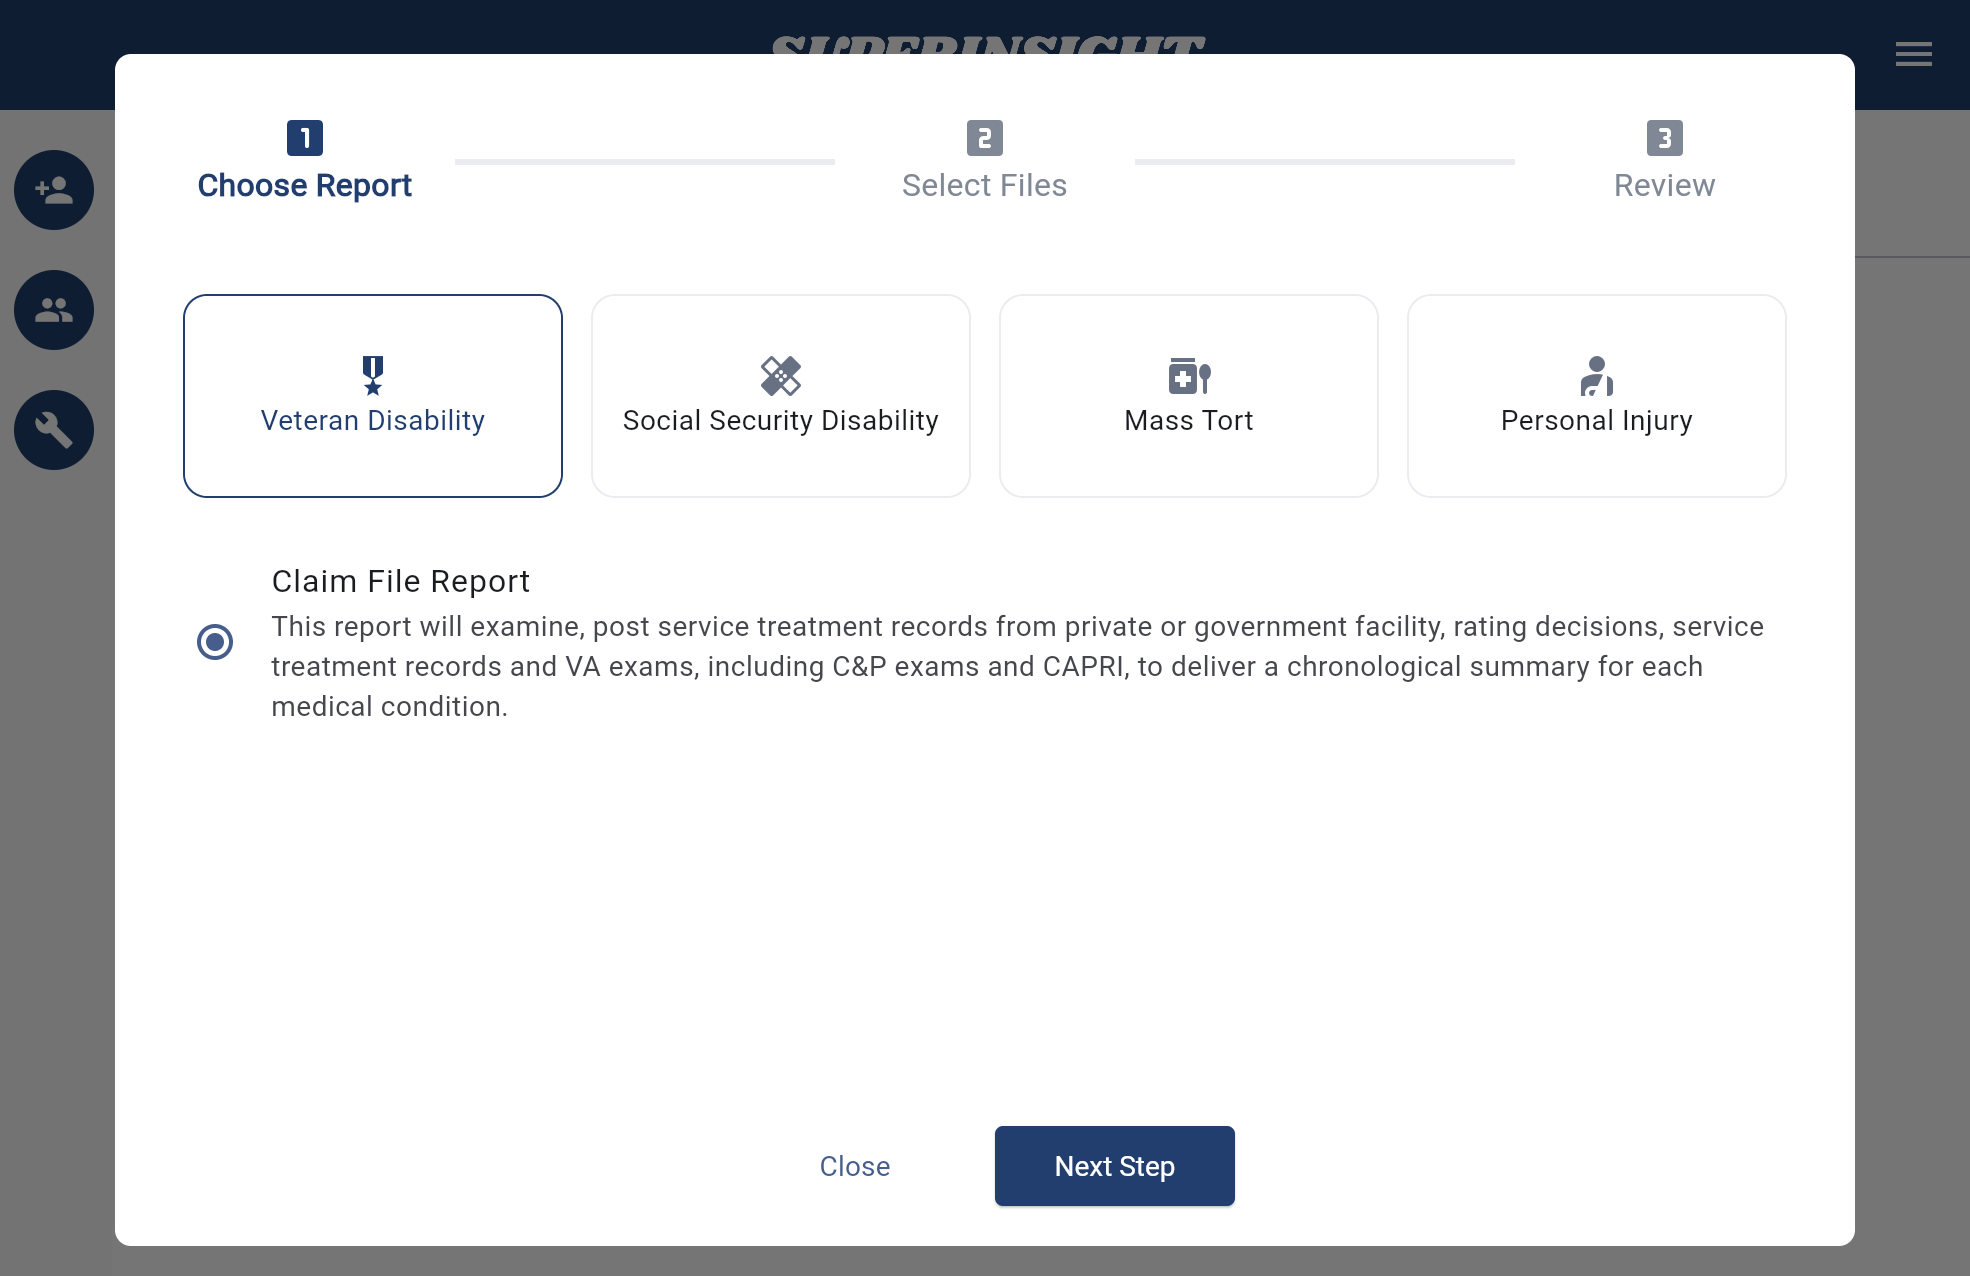
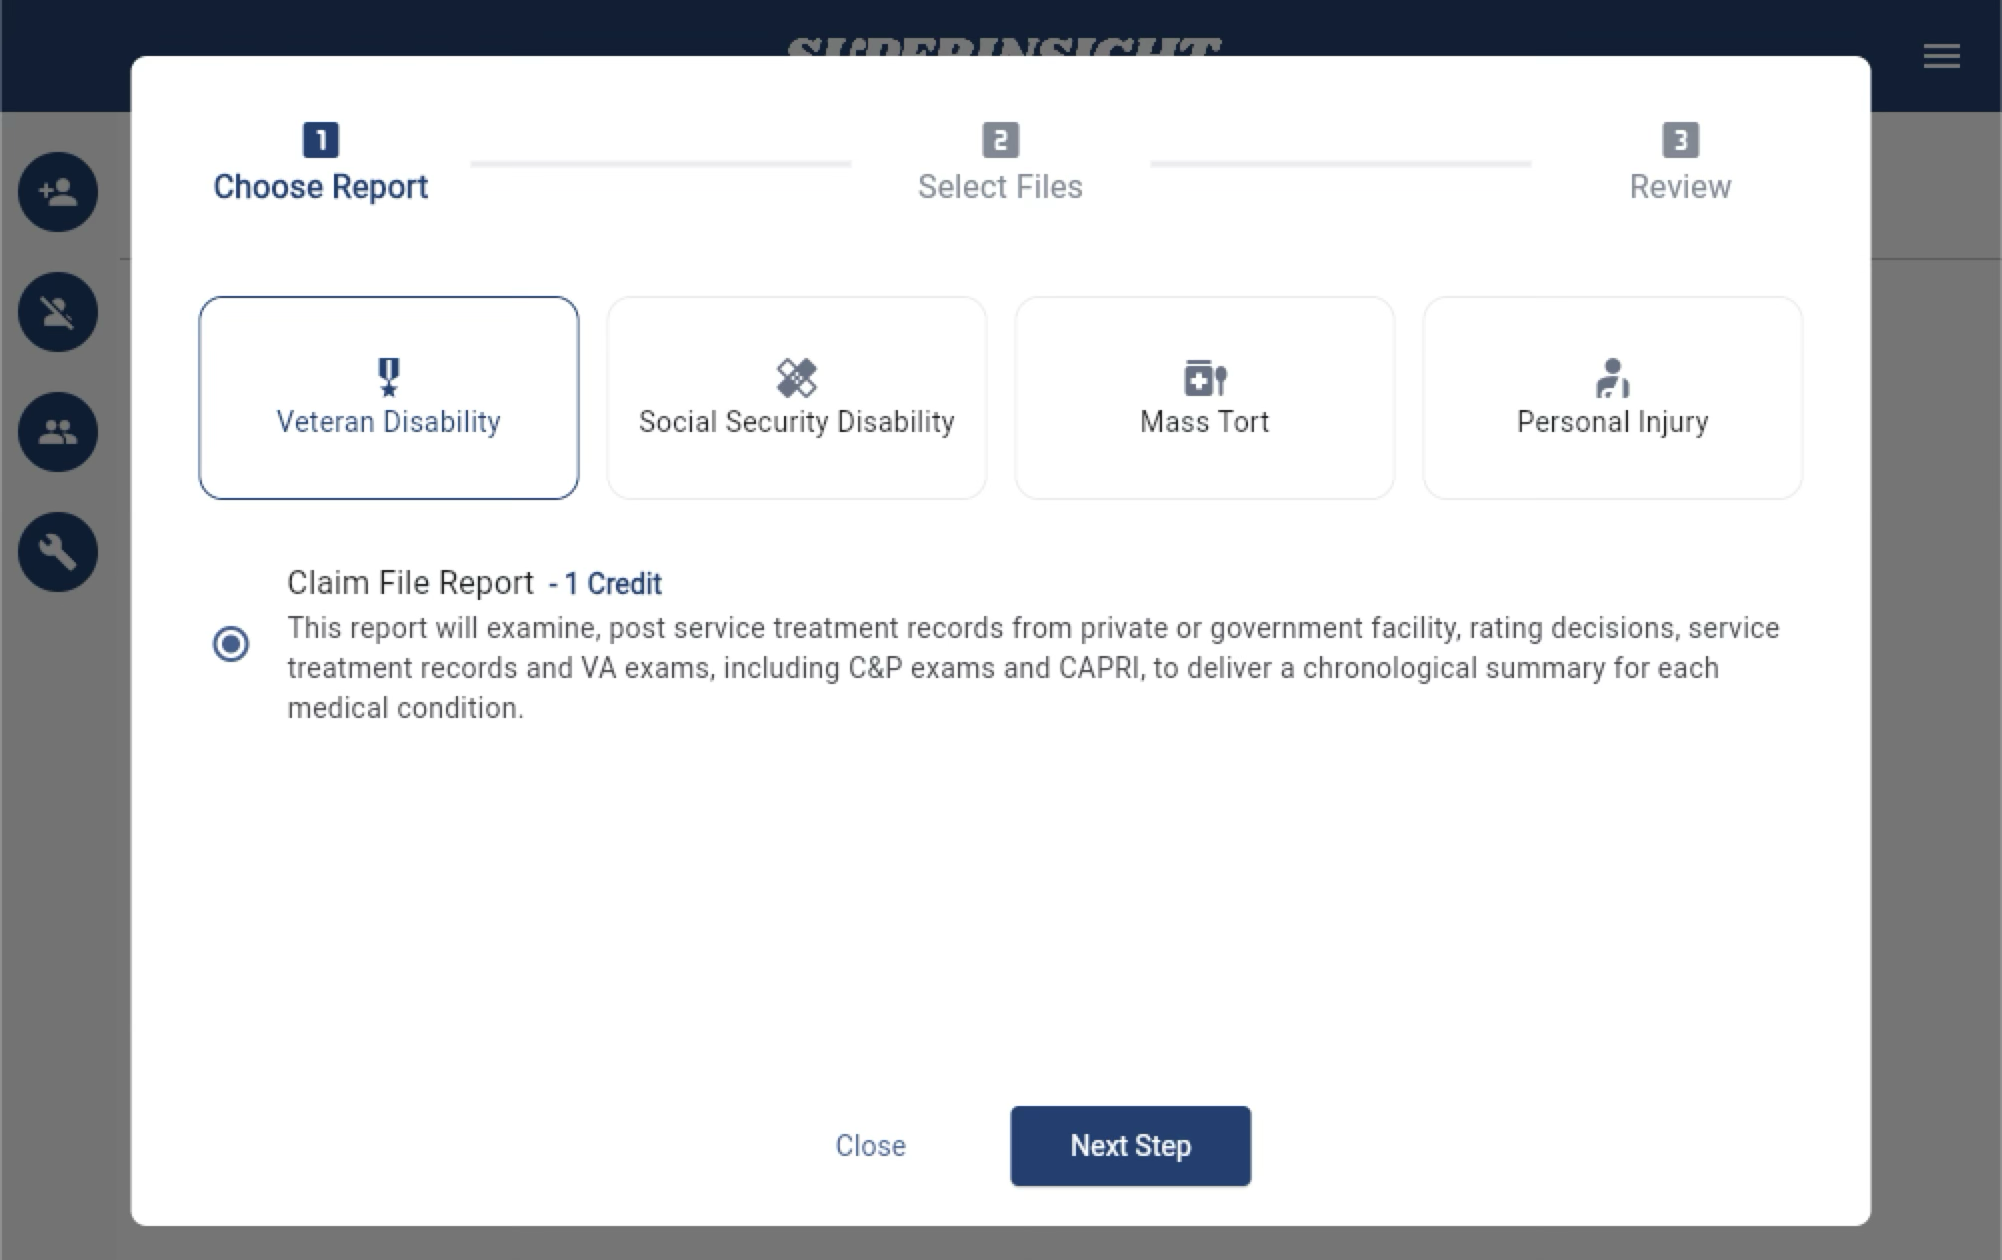
feature-nov-updates-24

diff --git a/docs/guide/case-report.md b/docs/guide/case-report.md
@@ -20,6 +20,8 @@ Select the report types that you want to build. Now we offer 4 types of report, 
     
     If you need a sample report, please click [HERE](sample-report.md)
 
+Each report costs 1-5 credits, based on required resources. If you need extra credits, [contact us](mailto:help@superinsight.ai) to purchase **10 credits for $250** or **30 credits for $500**.
+
 === "Veteran Disability"
     CFile report covers all the information you need while helping veterans, including deep analysis of Rating Decisions, Service Treatment Records, Post Service Medical Records and more.
 

diff --git a/docs/guide/release-notes.md b/docs/guide/release-notes.md
@@ -6,6 +6,22 @@ Release notes provide the list of items on feature changes, known issues, fixes,
 
 ---------------------------------------
 
+#### November 11, 2024 Released
+
+* Credit System implemented
+
+* New Social Security Disability report type added.
+
+* Personal Injury Report enhancement.
+
+* Minor UI changed.
+
+* Improved the results of reports.
+
+* System optimized.
+
+---------------------------------------
+
 #### October 23, 2024 Released
 
 * Maximum upload file size increase to 2 GB.
